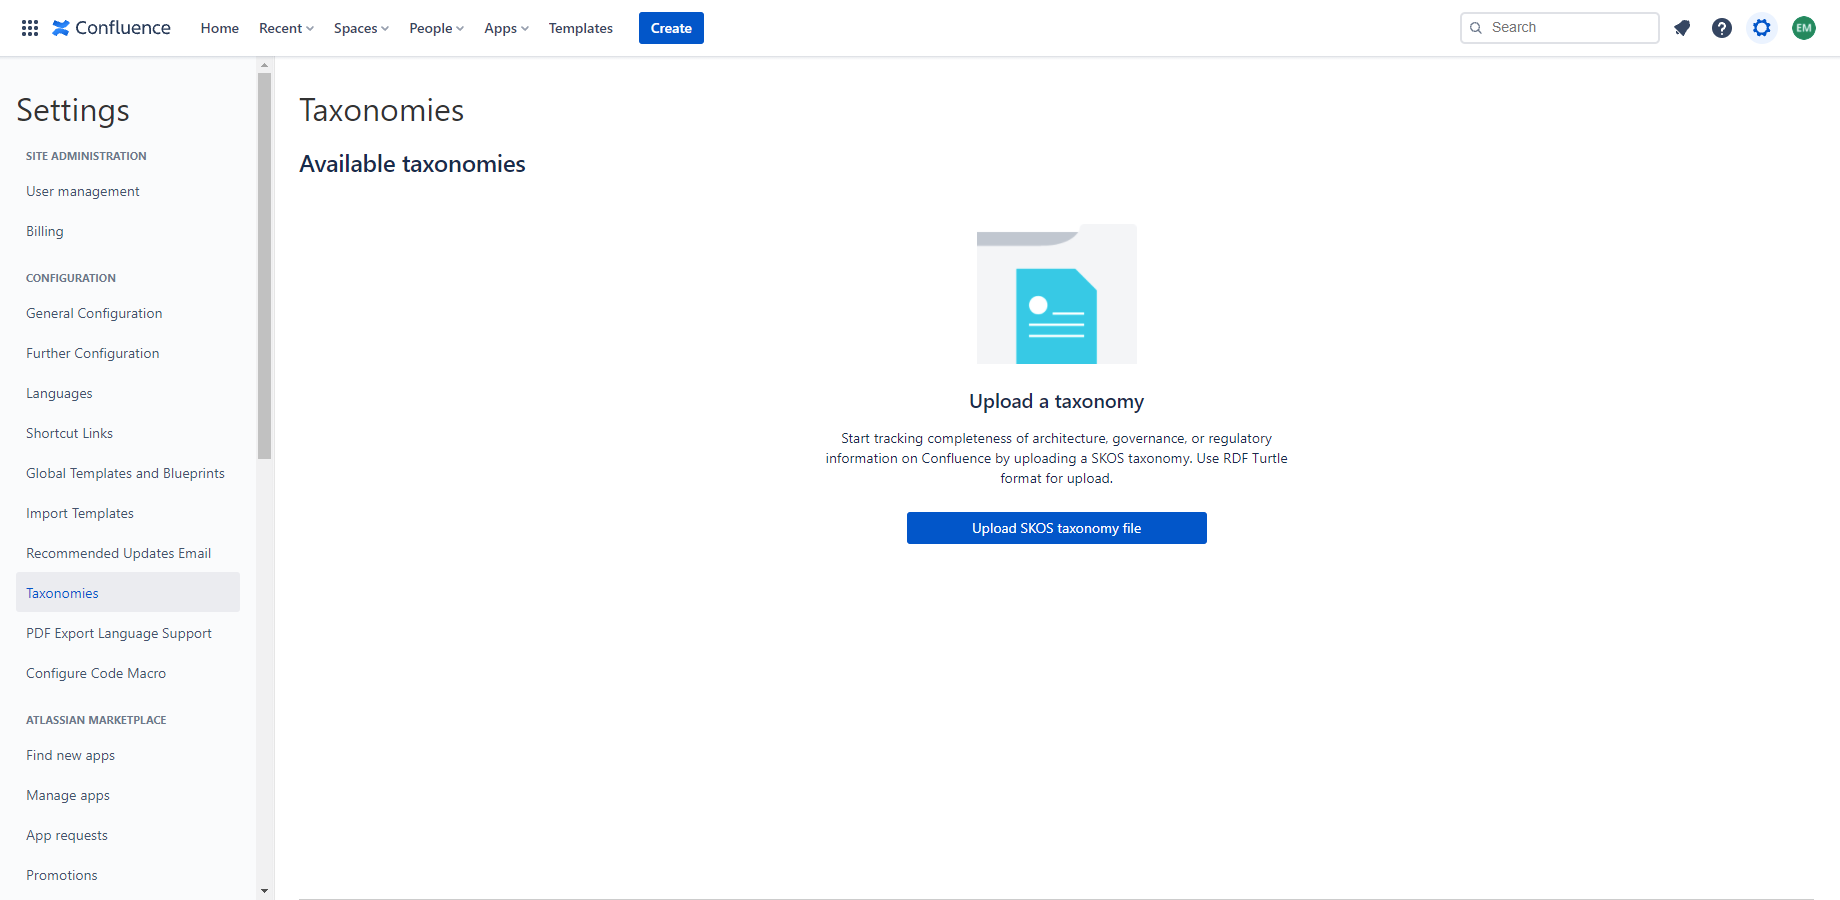
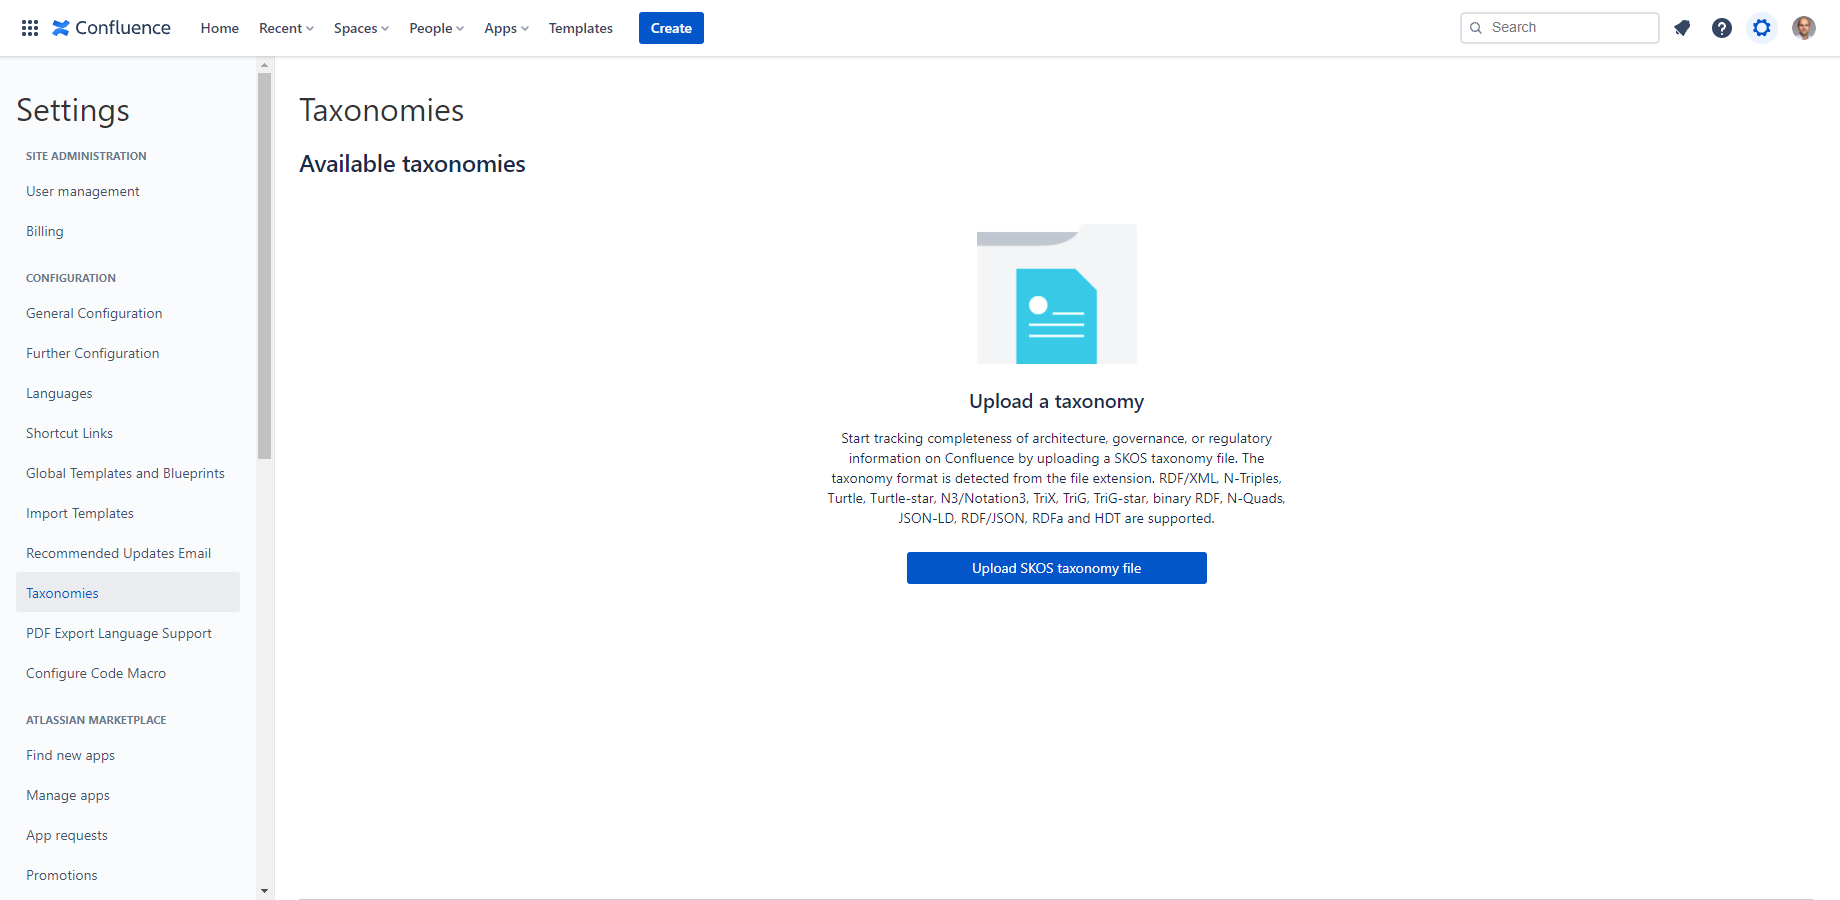
Updates user guide for release 1.4.0.

Changed region(s): [[0.4337, 0.4978, 0.7125, 0.6533], [0.9603, 0.0, 0.9913, 0.0622]]

diff --git a/_services/taxonomies-for-confluence.md b/_services/taxonomies-for-confluence.md
@@ -26,7 +26,7 @@ Select **Taxonomies** to navigate to the taxonomies settings page.
 
 ![Import SKOS taxonomies](/images/tfc/1.png)
 
-To import SKOS vocabulary, taxonomy or thesaurus click **Upload SKOS taxonomy file** button and select the file (right now only [RDF Turtle](https://www.w3.org/TR/turtle/) format is supported). The upload will start automatically once the file is selected. When the upload completes, an updated list of taxonomies is displayed, and you can explore their structure by clicking on the expansion button.
+To import SKOS vocabulary, taxonomy or thesaurus click **Upload SKOS taxonomy file** button and select the file. [RDF/XML](http://www.w3.org/TR/rdf-syntax-grammar/), [N-Triples](http://www.w3.org/TR/n-triples/), [Turtle](https://www.w3.org/TR/turtle/), Turtle-star, [N3/Notation3](http://www.w3.org/TeamSubmission/n3/), [TriX](http://swdev.nokia.com/trix/), [TriG](http://www.w3.org/TR/trig/), TriG-star, [binary RDF](http://rivuli-development.com/2011/11/binary-rdf-in-sesame/), [N-Quads](http://www.w3.org/TR/n-quads/), [JSON-LD](http://www.w3.org/TR/json-ld/), [RDF/JSON](http://www.w3.org/TR/rdf-json/), [RDFa](http://www.w3.org/TR/rdfa-syntax/) and [HDT](http://www.rdfhdt.org/hdt-binary-format/) formats are supported detected from the file extension. The upload will start automatically once the file is selected. When the upload completes, an updated list of taxonomies is displayed, and you can explore their structure by clicking on the expansion button.
 
 ![Explore SKOS imported taxonomies](/images/tfc/2.png)
 
